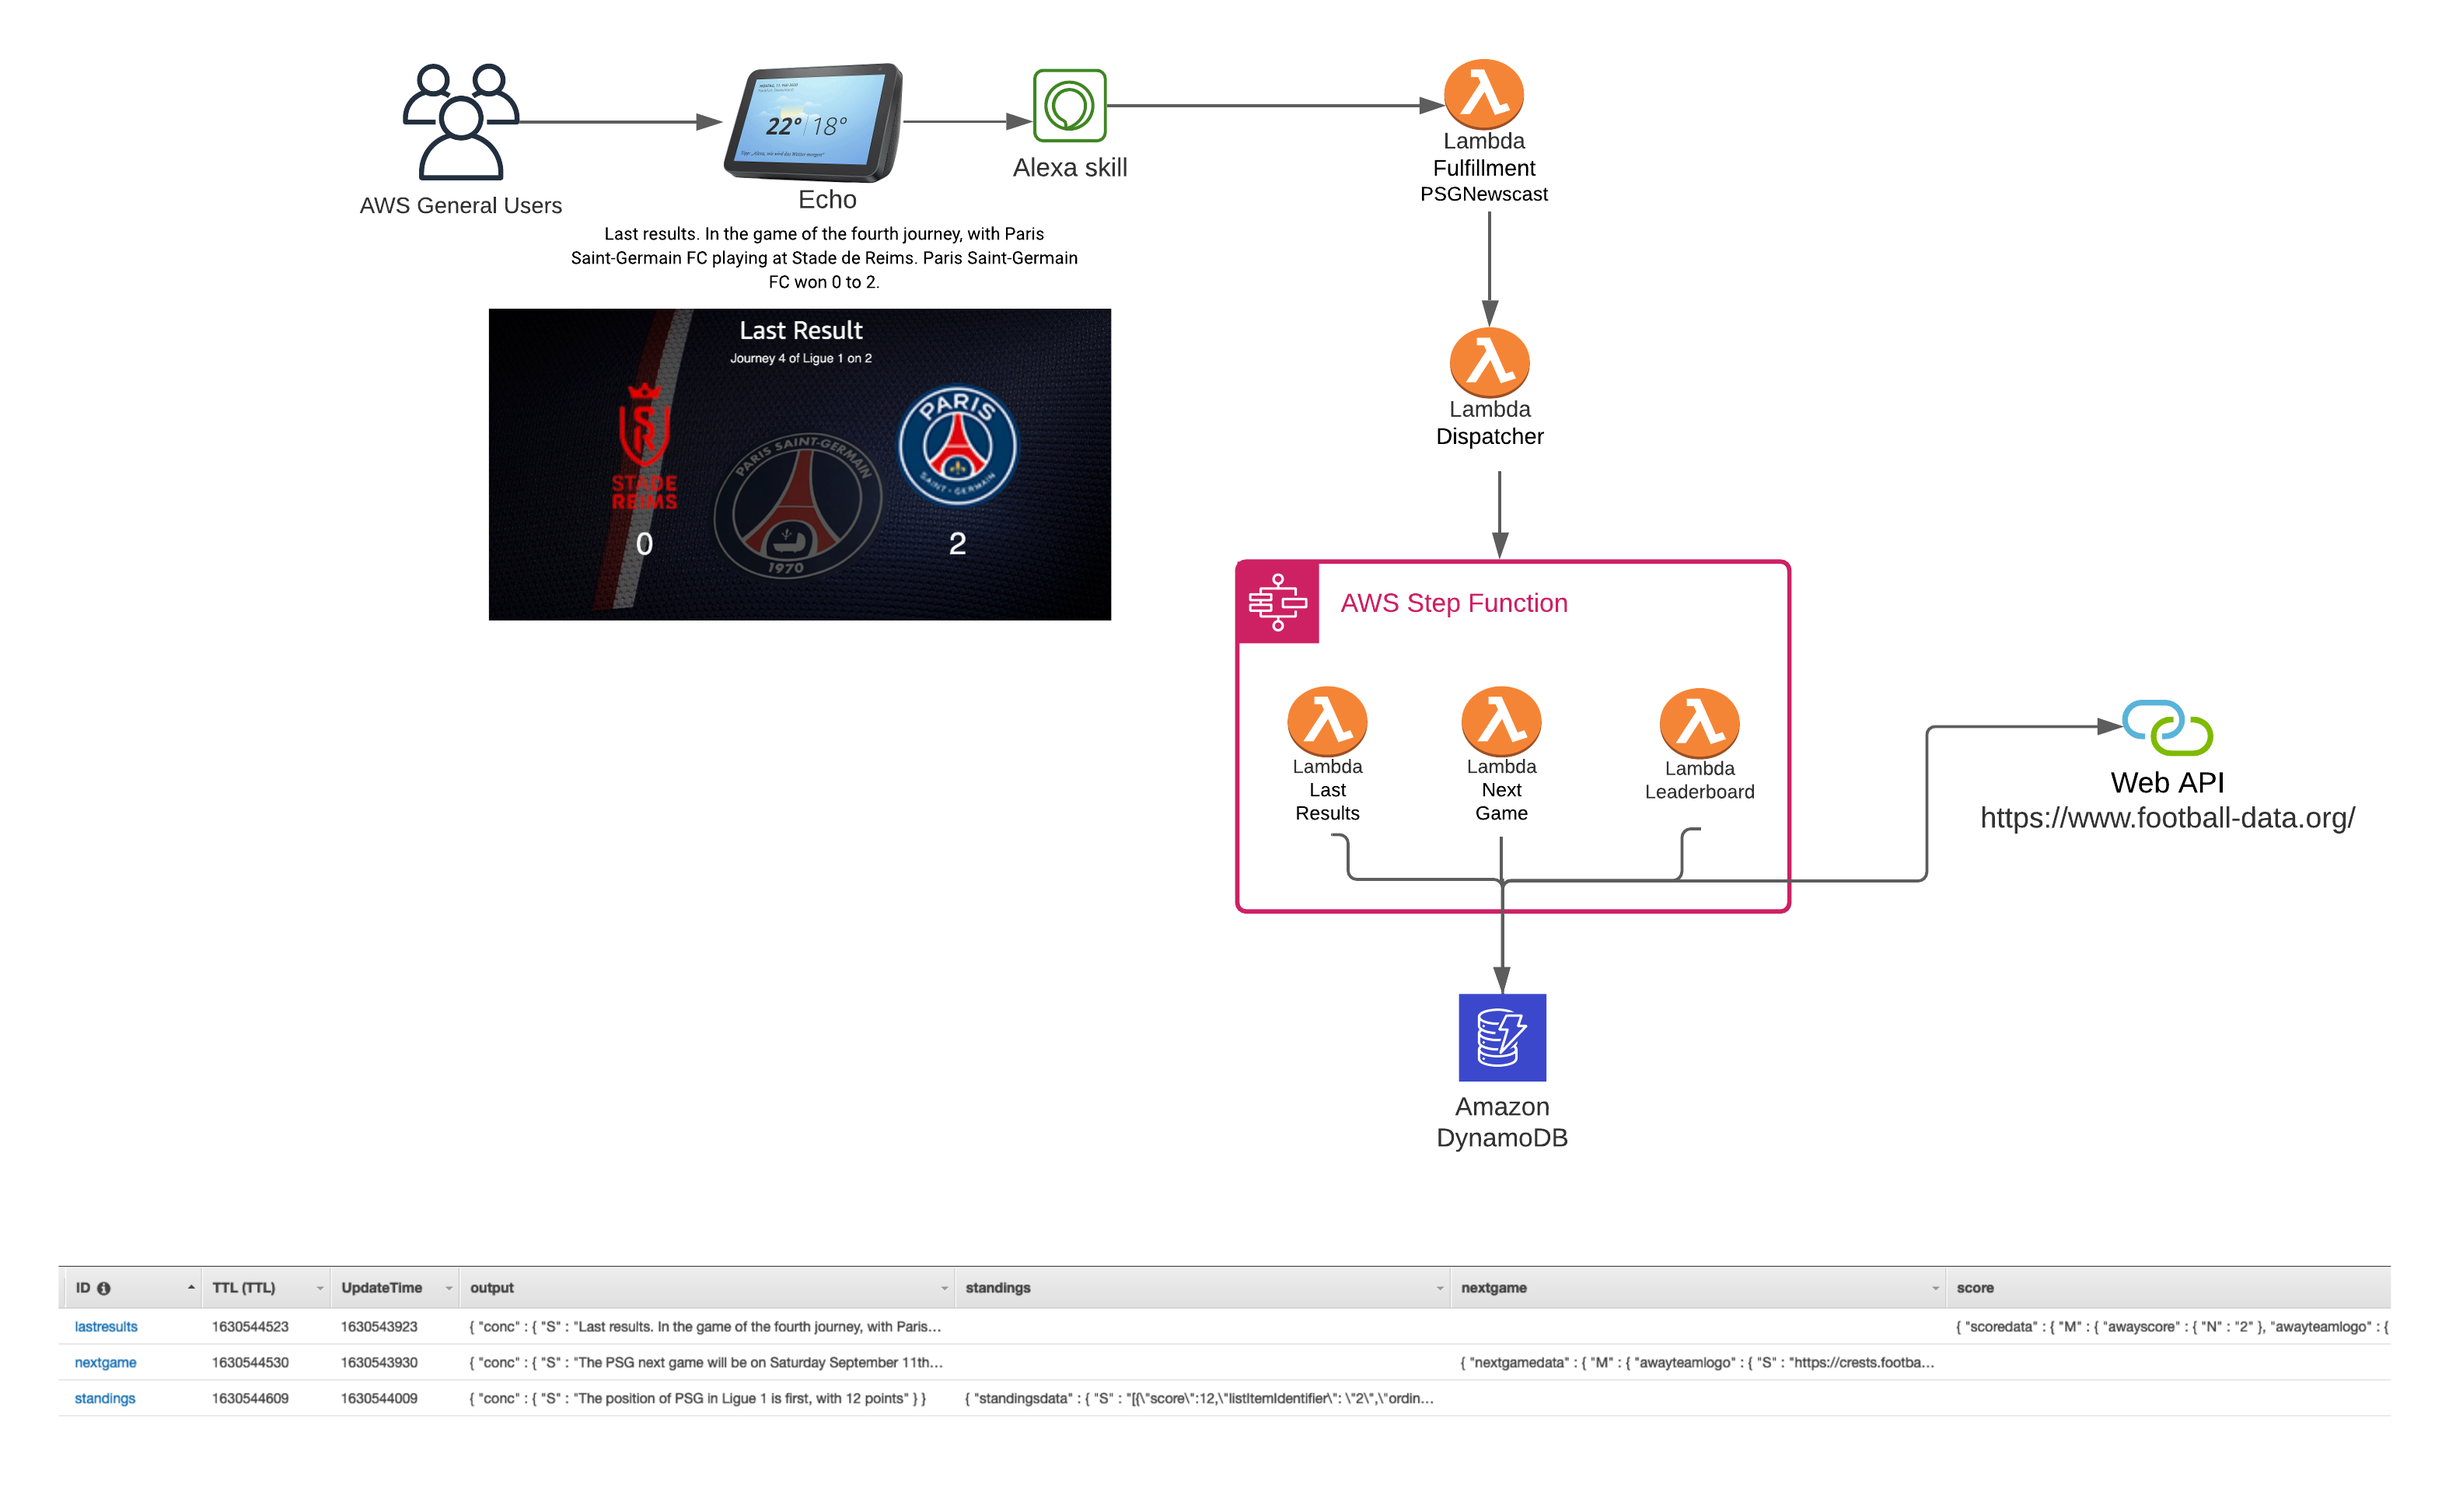
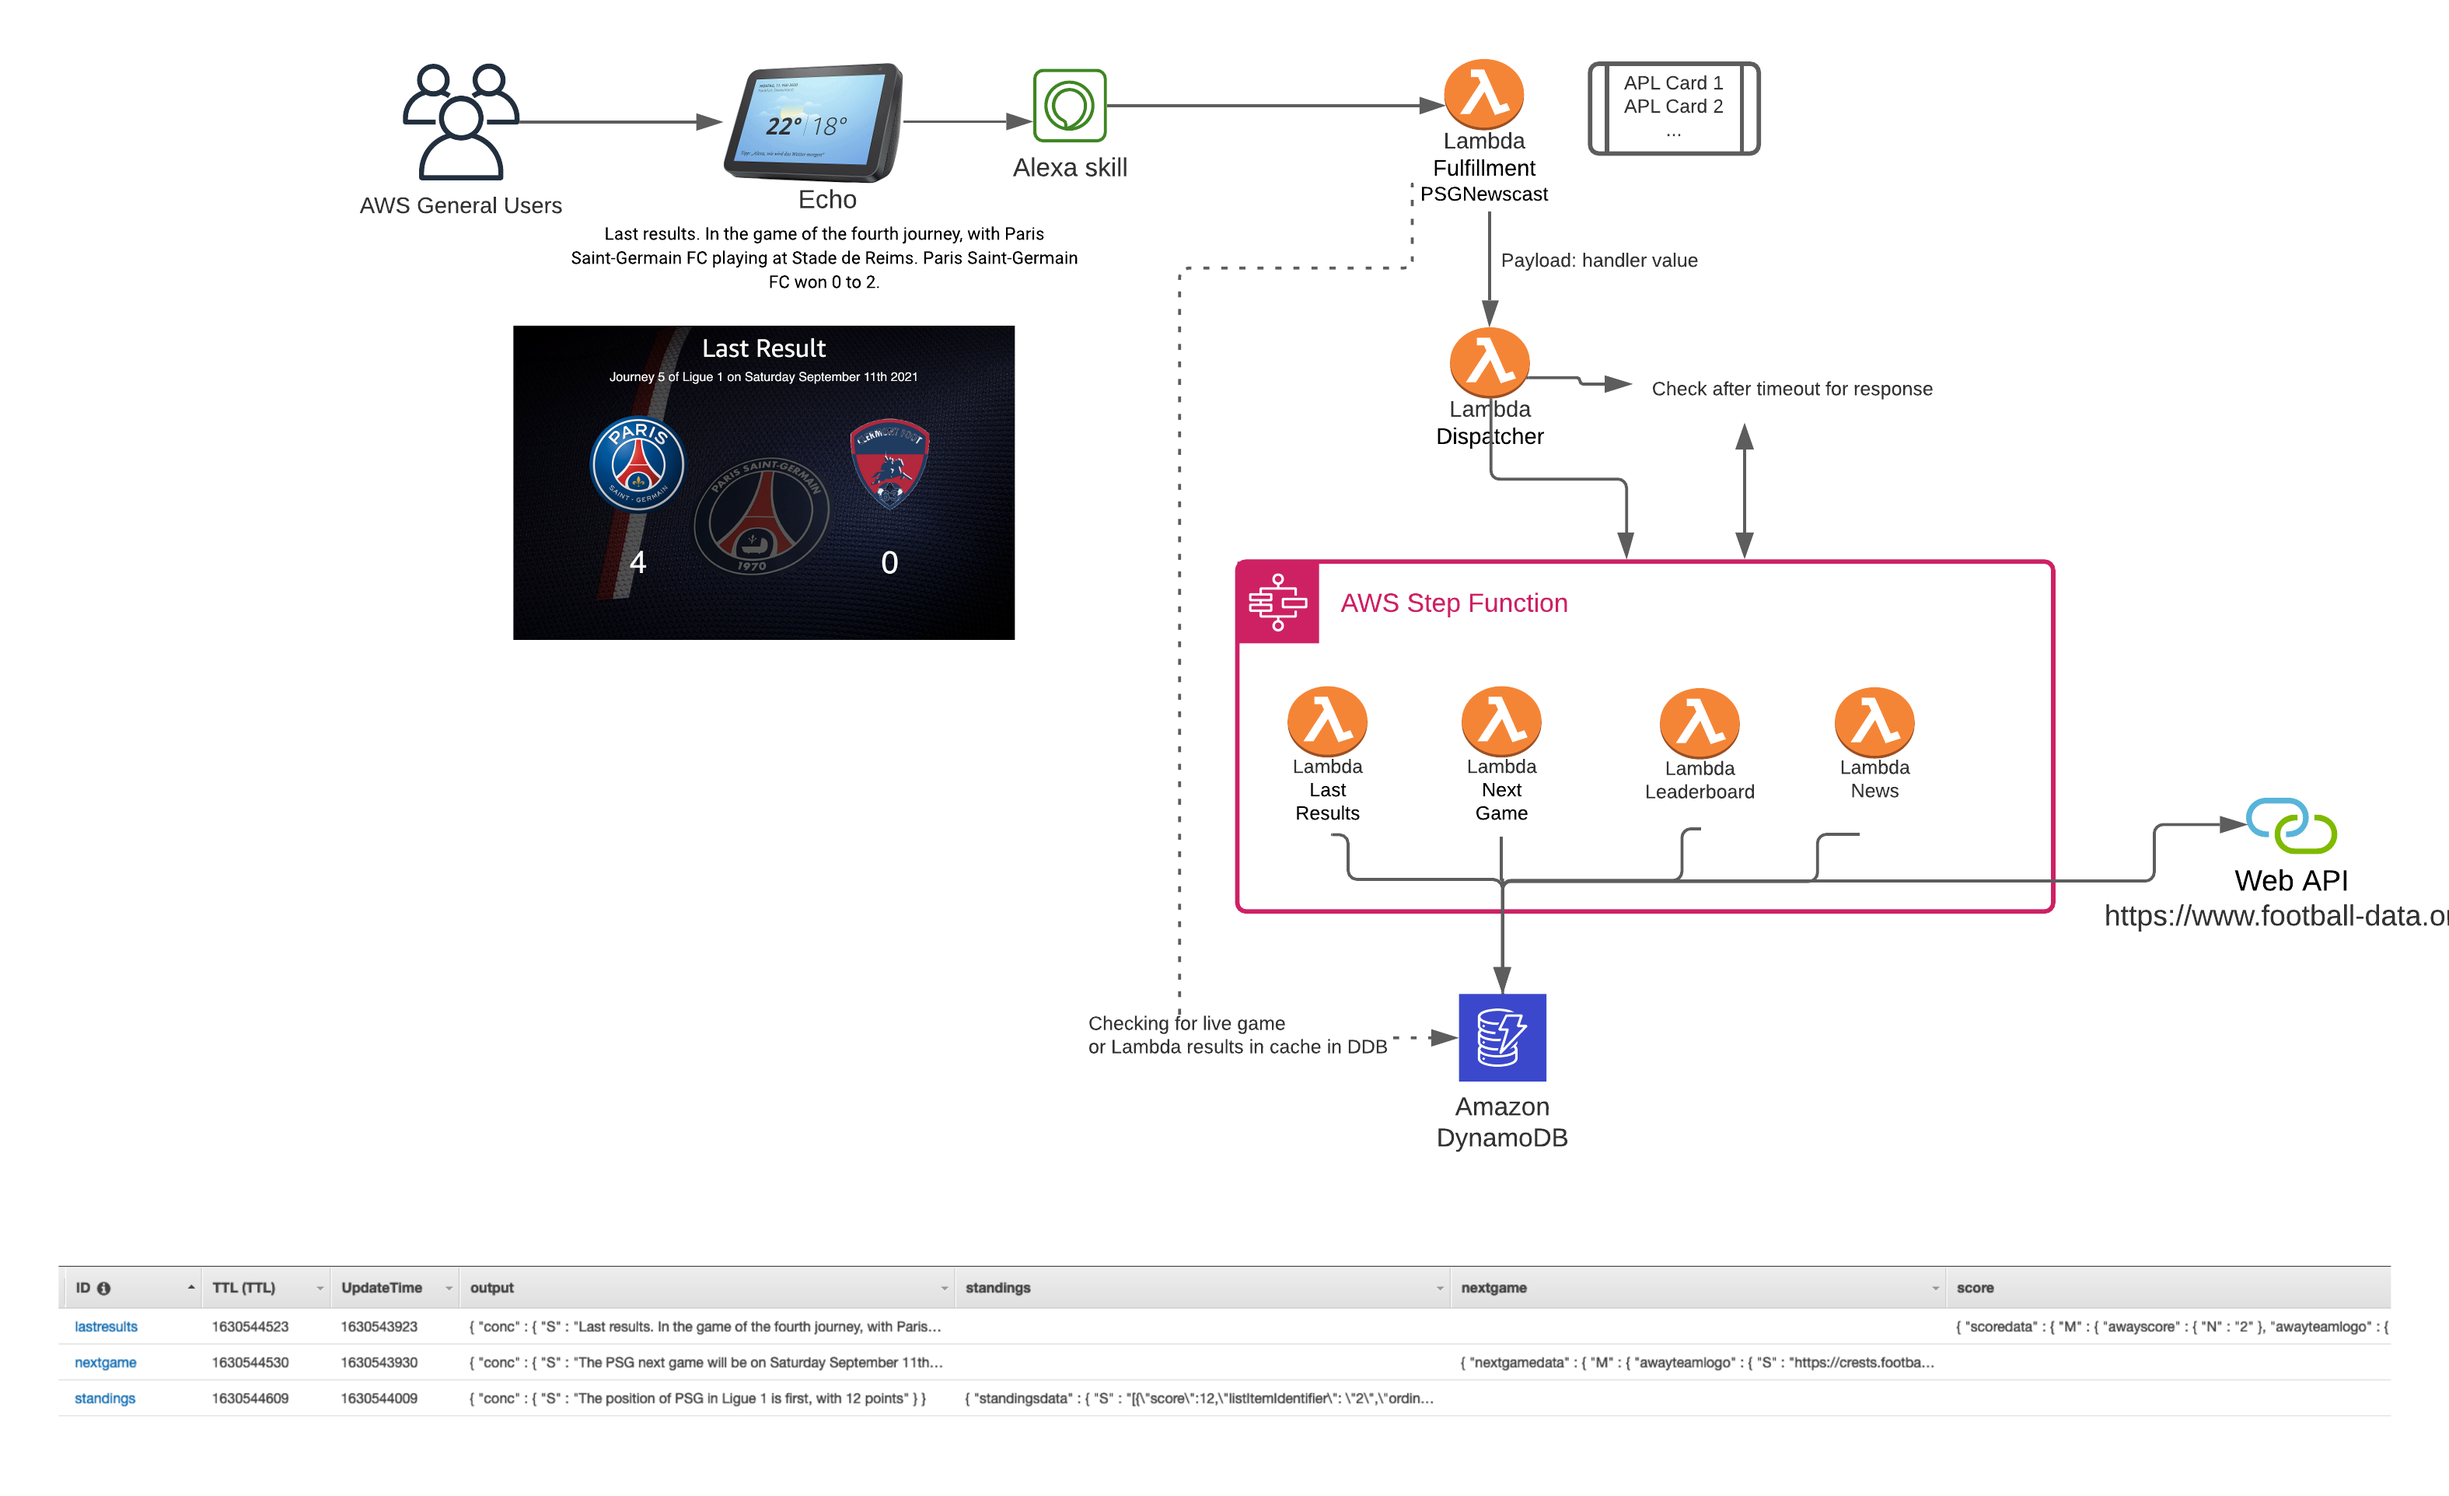
adding Champions league info on last results

diff --git a/cdk/psg-newscast-cdk/resources/Lambda/PSGNewscast/index.js b/cdk/psg-newscast-cdk/resources/Lambda/PSGNewscast/index.js
@@ -42,7 +42,7 @@ const LaunchRequestHandler = {
         try { if (checkddblivgam.Item.current === "true") {
             livespeak = "Paris is playing right now, say <phoneme alphabet='ipa' ph='laɪv'> live </phoneme> to learn about the current game.";
             if (checkddblivgam.Item.gameinfo != "notstarted") {
-            var footer = "<span color='red' fontSize='20dp'>Game in progress:</span> <span color='black'>. </span>  <span fontSize='30dp'>" +checkddblivgam.Item.gameinfo.jsongamelivehome+ " "+checkddblivgam.Item.gameinfo.jsongamelivehomescore+" - " + checkddblivgam.Item.gameinfo.jsongameliveawayscore+ " " +checkddblivgam.Item.gameinfo.jsongameliveaway+ "("+checkddblivgam.Item.gameinfo.jsongameliveclock+"') </span><span fontSize='18dp'><i>  <span color='black'> . . . . . . . . . </span> *Say live to know more</i></span> ";
+            var footer = "<span color='red' fontSize='14dp'>Game in progress:</span> <span color='black'>. </span>  <span fontSize='20dp'>" +checkddblivgam.Item.gameinfo.jsongamelivehome+ " "+checkddblivgam.Item.gameinfo.jsongamelivehomescore+" - " + checkddblivgam.Item.gameinfo.jsongameliveawayscore+ " " +checkddblivgam.Item.gameinfo.jsongameliveaway+ " ("+checkddblivgam.Item.gameinfo.jsongameliveclock+"') </span><span fontSize='10dp'><i>  <span color='black'> . . . . . . . . . </span> *Say live to know more</i></span> ";
             footer = footer.replace("Paris Saint-Germain FC","Paris\-SG")
             } else {
                 footer = "";
@@ -109,6 +109,7 @@ const LastResultsIntentHandler = {
                 };
                 var displast = await lambda.invoke(paramslbd).promise();
                 console.log("displast: ",JSON.parse(displast.Payload));
+                console.log("displast content: ",JSON.parse(displast.Payload).messages[0].content);
                 var homescore = JSON.parse(displast.Payload).messages[0].content.score.homescore;
                 var awayscore = JSON.parse(displast.Payload).messages[0].content.score.awayscore;
                 var hometeamlogo = JSON.parse(displast.Payload).messages[0].content.score.hometeamlogo;
@@ -116,9 +117,12 @@ const LastResultsIntentHandler = {
                 var journey = JSON.parse(displast.Payload).messages[0].content.score.journey;
                 var jsoncompetition = JSON.parse(displast.Payload).messages[0].content.score.jsoncompetition;
                 var jsongamedate = JSON.parse(displast.Payload).messages[0].content.score.jsongamedate;
+                var jsonstageUEFA = JSON.parse(displast.Payload).messages[0].content.score.jsonstageUEFA;
+                var jsongroupUEFA = JSON.parse(displast.Payload).messages[0].content.score.jsongroupUEFA;
                 console.log("homescore: ",homescore);
                 console.log("awayscore: ",awayscore);
-                var speak = JSON.parse(displast.Payload).messages[0].content.conc
+                var speak = JSON.parse(displast.Payload).messages[0].content.conc;
+                console.log("speak: ",speak);
 
             } else {
                 var homescore = checkddblast.Item.score.scoredata.homescore;
@@ -129,12 +133,14 @@ const LastResultsIntentHandler = {
                 var journey = checkddblast.Item.score.scoredata.journey;
                 var jsoncompetition = checkddblast.Item.score.scoredata.jsoncompetition;
                 var jsongamedate = checkddblast.Item.score.scoredata.jsongamedate;
+                var jsonstageUEFA = checkddblast.Item.score.scoredata.jsonstageUEFA;
+                var jsongroupUEFA = checkddblast.Item.score.scoredata.jsongroupUEFA;
                 var speak = checkddblast.Item.output.conc;
             }
 
         
         return handlerInput.responseBuilder
-            .withResultsCard('PSG News','{"homescore": "'+homescore+'", "awayscore": "'+awayscore+'", "hometeamlogo": "'+hometeamlogo+'", "awayteamlogo": "'+awayteamlogo+'", "journey": "'+journey+'", "jsoncompetition": "'+jsoncompetition+'", "jsongamedate": "'+jsongamedate+'"}') // <--
+            .withResultsCard('PSG News','{"homescore": "'+homescore+'", "awayscore": "'+awayscore+'", "hometeamlogo": "'+hometeamlogo+'", "awayteamlogo": "'+awayteamlogo+'", "journey": "'+journey+'", "jsoncompetition": "'+jsoncompetition+'", "jsongamedate": "'+jsongamedate+'", "jsonstageUEFA": "'+jsonstageUEFA+'", "jsongroupUEFA": "'+jsongroupUEFA+'"}') // <--
             .speak(speak)
             .reprompt(speak)
             .getResponse();

diff --git a/cdk/psg-newscast-cdk/resources/Lambda/PSGNewscast-lastresults-score/index.js b/cdk/psg-newscast-cdk/resources/Lambda/PSGNewscast-lastresults-score/index.js
@@ -34,7 +34,9 @@ const headers= {
     
              //4. convert from a remote file
             //var hometeamlogo = "https://crests.football-data.org/"+jsongamecurhomeid+".png";
-            const input = (await axios({ url: 'https://crests.football-data.org/'+teamid+'.svg', responseType: "arraybuffer" })).data;
+            if (teamid == "champions") {
+                var input = (await axios({ url: 'https://upload.wikimedia.org/wikipedia/en/b/bf/UEFA_Champions_League_logo_2.svg', responseType: "arraybuffer" })).data;
+            } else { input = (await axios({ url: 'https://crests.football-data.org/'+teamid+'.svg', responseType: "arraybuffer" })).data;}
             console.log("input: ",input);  
         
             var teamlogo = await sharp(input)
@@ -82,6 +84,7 @@ const headers= {
             var jsongamedateUTC = jp.query(jsongamelastgame, '$.utcDate');
             console.log("jsongamedateUTC:", jsongamedateUTC[0]);
             var jsongamedate = jsongamedateUTC[0].split("T")[0];
+            console.log("jsongamedate:", jsongamedate);
             var jsongamecurhome = jp.query(jsongamelastgame, '$.homeTeam.name');
             console.log("jsongamecurhome:", jsongamecurhome);
             var jsongamecurhomeid = jp.query(jsongamelastgame, '$.homeTeam.id');
@@ -104,8 +107,21 @@ const headers= {
             var jsongamecurawayscore = jp.query(jsongamelastgame, '$.score.fullTime.awayTeam');
             console.log("cjsongamecurwinnername:", jsongamecurawayscore);
             var date = new Date(jsongamedate);
-            var dateformat = moment(date).tz("America/New_York").format('dddd MMMM Do YYYY');
-            console.log("dateformat: ",dateformat);
+            console.log("date:", date);
+            var dateformat = moment(jsongamedate).format('dddd MMMM Do YYYY');
+            console.log("dateformat2: ",dateformat);
+            var jsonstageUEFA = "";
+            var jsongroupUEFA = "";
+            if (jsoncompetition == "UEFA Champions League") {
+                jsonstageUEFA = jp.query(jsongamelastgame, '$.stage');
+                var logoUEFA = await logo("champions");
+                console.log("logoUEFA: ",logoUEFA);
+                var logoUEFApng = "https://psgnewscast-skill2021.s3.amazonaws.com/teamlogo/champions.png";
+                if (jsonstageUEFA == "GROUP_STAGE") {
+                    jsonstageUEFA = "Group stage";
+                    jsongroupUEFA = "- "+jp.query(jsongamelastgame, '$.group');
+                } else jsongroupUEFA = "";
+            } 
             //in the game of the x journey of league 1, with XX playin YY, XX won 1 to 2, would you like to know more.
             //Leaderboard The position of PSG in League One is first, with 9 points.
             //Angers SCO is second with 7 points. Clermont Foot 63 is third with 7 points. You can ask for the last results, , next game, position in the leaderboard, latest news, or music.
@@ -136,7 +152,10 @@ const headers= {
                         "awayteamlogo": awayteamlogo,
                         "journey": jsonday[0],
                         "jsoncompetition": jsoncompetition[0],
-                        "jsongamedate": dateformat
+                        "jsongamedate": dateformat,
+                        "jsonstageUEFA": jsonstageUEFA,
+                        "jsongroupUEFA": jsongroupUEFA
+                        
             };
             console.log("scoredata: ",scoredata);
             
@@ -171,7 +190,9 @@ const headers= {
                         "awayteamlogo": awayteamlogo,
                         "journey": jsonday,
                         "jsoncompetition": jsoncompetition,
-                        "jsongamedate": dateformat
+                        "jsongamedate": dateformat,
+                        "jsonstageUEFA": jsonstageUEFA,
+                        "jsongroupUEFA": jsongroupUEFA
                     }
                 }
             };

diff --git a/cdk/psg-newscast-cdk/resources/Lambda/PSGNewscast/resultscard.js b/cdk/psg-newscast-cdk/resources/Lambda/PSGNewscast/resultscard.js
@@ -22,7 +22,9 @@ const APLHomeCardRequestInterceptor = {
                             "awayscore": JSON.parse(cardContent).awayscore,
                             "journey": JSON.parse(cardContent).journey,
                             "jsoncompetition": JSON.parse(cardContent).jsoncompetition,
-                            "jsongamedate": JSON.parse(cardContent).jsongamedate
+                            "jsongamedate": JSON.parse(cardContent).jsongamedate,
+                            "jsonstageUEFA": JSON.parse(cardContent).jsonstageUEFA,
+                            "jsongroupUEFA": JSON.parse(cardContent).jsongroupUEFA
                         },
                         templateData: {
                             "header": cardTitle,
@@ -36,6 +38,10 @@ const APLHomeCardRequestInterceptor = {
                     }
                 });
             }
+            if (JSON.parse(cardContent).jsonstageUEFA != "") {
+                console.log("add champions logo");
+                var championslogo = "https://psgnewscast-skill2021.s3.amazonaws.com/teamlogo/champions.png";
+            } else {championslogo = ""}
             withResultsCard(cardTitle, cardContent);
             return handlerInput.responseBuilder;
         }
@@ -138,6 +144,16 @@ const APLDoc =
                                 "height": "10dp",
                                 "width": "100vw",
                                 "fontSize": "4vh"
+                            },
+                            {
+                                "type": "Text",
+                                "textAlign": "center",
+                                "text": "${score.jsonstageUEFA} ${score.jsongroupUEFA}",
+                                "paddingTop": "0vh",
+                                "paddingBottom": "10vh",
+                                "height": "5dp",
+                                "width": "100vw",
+                                "fontSize": "3vh"
                             }
                         ]
                     },
@@ -169,7 +185,7 @@ const APLDoc =
                         "imageBlurredBackground": false
                             }
                         ],
-                        "height": "50%",
+                        "height": "35%",
                         "width": "100%",
                         "direction": "row",
                         "wrap": "noWrap"
@@ -181,9 +197,9 @@ const APLDoc =
                                 "type": "Text",
                                 "textAlign": "center",
                                 "text": "${score.homescore}",
-                                "paddingTop": "0vh",
+                                "paddingTop": "5vh",
                                 "paddingBottom": "5vh",
-                                "height": "32dp",
+                                "height": "20dp",
                                 "width": "50vw",
                                 "fontSize": "10vh"
                             },
@@ -191,9 +207,9 @@ const APLDoc =
                                 "type": "Text",
                                 "textAlign": "center",
                                 "text": "${score.awayscore}",
-                                "paddingTop": "0vh",
-                                "paddingBottom": "5vh",
-                                "height": "32dp",
+                                "paddingTop": "5vh",
+                                "paddingBottom": "0vh",
+                                "height": "10dp",
                                 "width": "50vw",
                                 "fontSize": "10vh"
                             }
